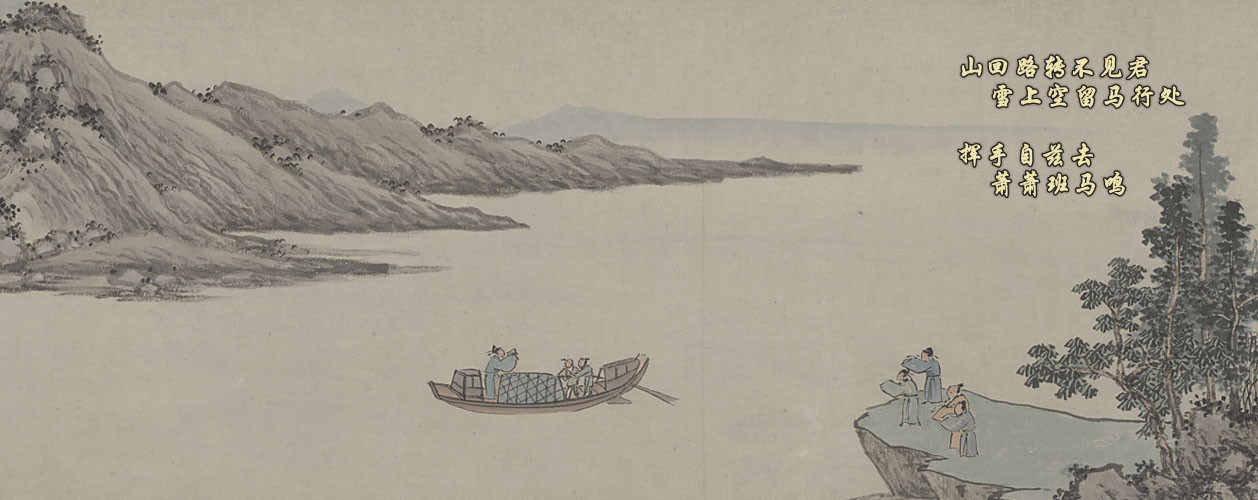
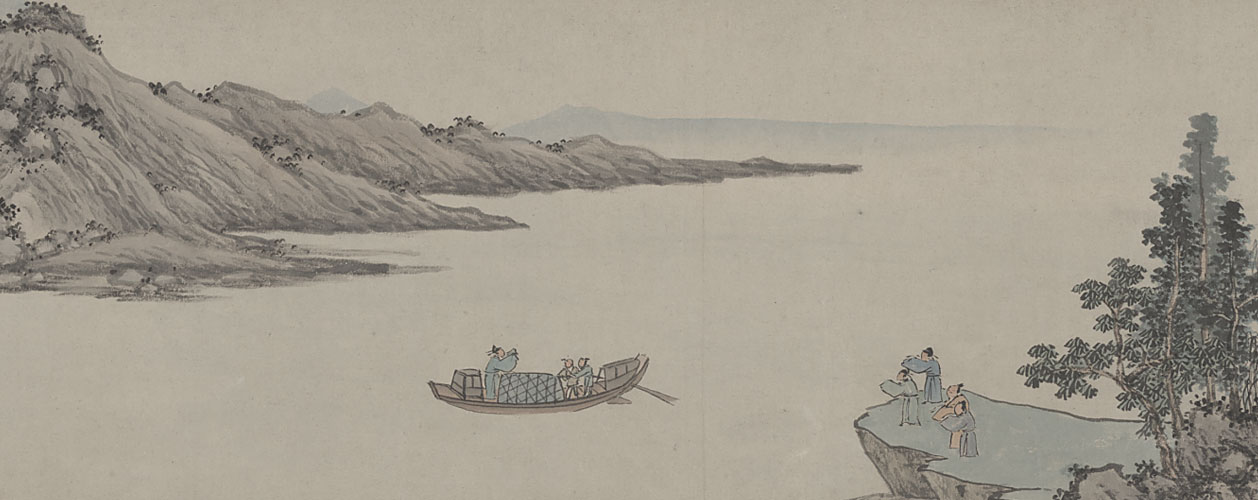
404 add description

Changed region(s): [[0.744, 0.09, 0.961, 0.24], [0.744, 0.27, 0.899, 0.39]]

diff --git a/404.html b/404.html
@@ -1,6 +1,6 @@
 ---
 layout: default
-description: "你来到了没有知识的荒原 🙊"
+description: "挥手自兹去，萧萧班马鸣。👋"
 header-img: "img/404-bg.jpg"
 permalink: /404.html
 ---
